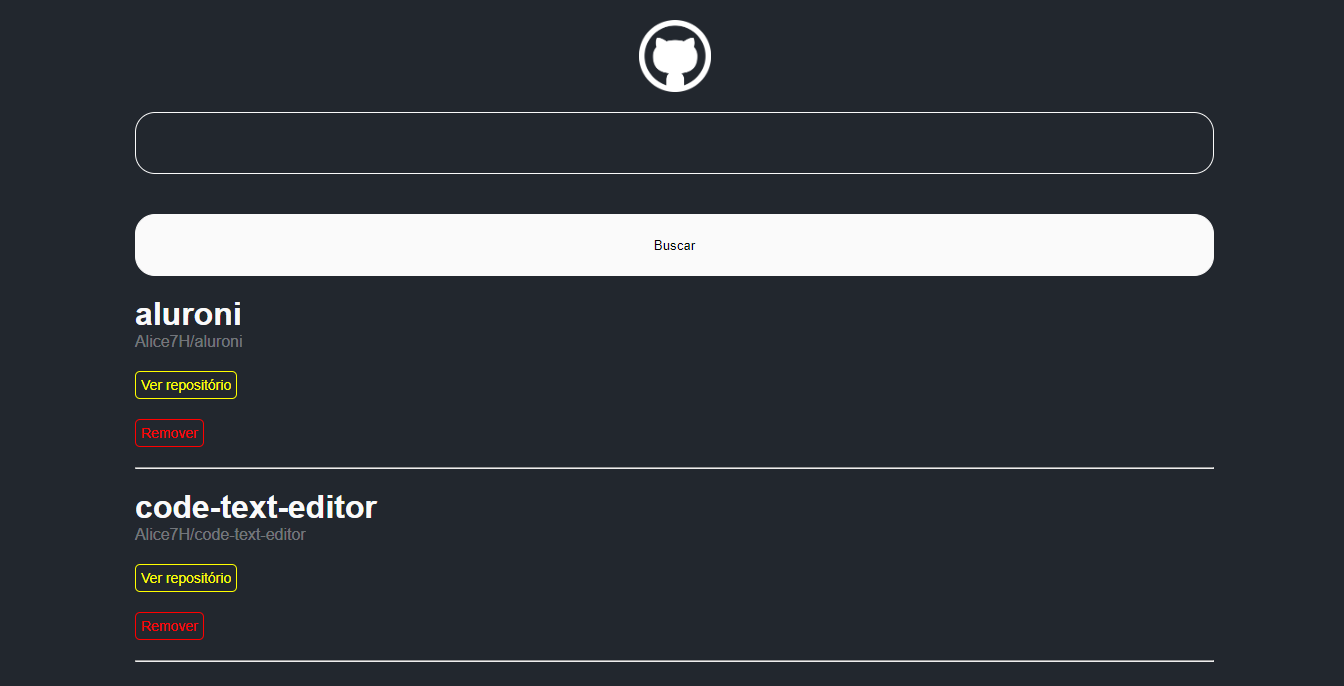
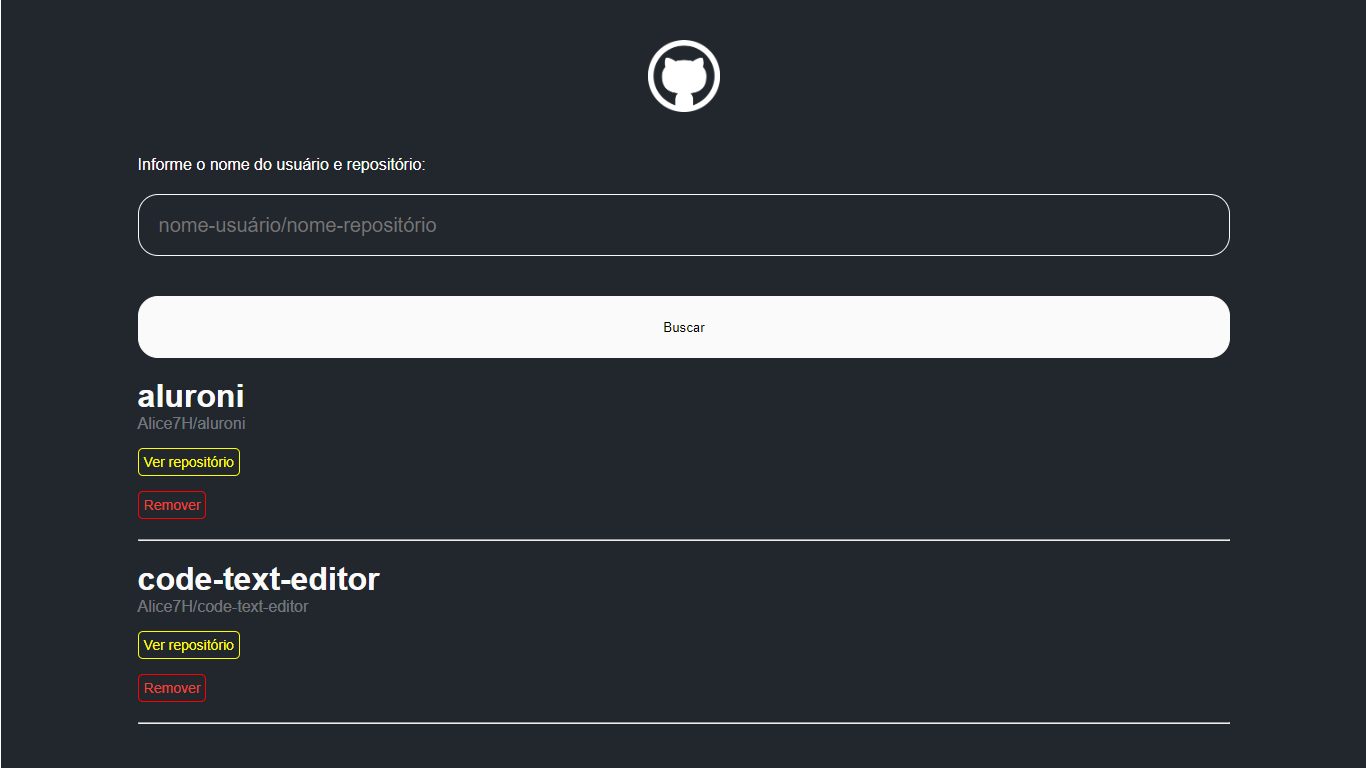
add label, generic notification error with react-hot-toast and image component

Changed region(s): [[0.0938, 0.1837, 0.9062, 0.949], [0.4688, 0.0306, 0.5312, 0.1531], [0.875, 0.2449, 0.9062, 0.2755]]

diff --git a/src/pages/App/index.js b/src/pages/App/index.js
@@ -1,21 +1,21 @@
 import { useState } from 'react';
-import { Input } from '../../components/Input';
-import { ItemRepo } from '../../components/ItemRepo';
-import { Button } from '../../components/Button';
+import { InputLabel, ItemRepo, Button, Image } from '../../components';
 import { Container } from './styles';
 import { api } from '../../services/api';
 import gitLogo from '../../assets/github.png'
+import toast, { Toaster } from 'react-hot-toast';
 
 const App = () => {
   const [currentRepo, setCurrentRepo] = useState('');
   const [repos, setRepos] = useState([]);
 
   const handleSearchRepo = async () => {
-    const { data } = await api.get(`repos/${currentRepo}`);
-    if (data.id) {
+    try {
+      const { data } = await api.get(`repos/${currentRepo}`);
       setRepos(prev => [...prev, data]);
       setCurrentRepo('');
-      return;
+    } catch (error) {
+      toast.error('Requisição não encontrada');
     }
   }
 
@@ -26,8 +26,15 @@ const App = () => {
 
   return (
     <Container>
-      <img src={gitLogo} alt="github logo" width={72} height={72} />
-      <Input value={currentRepo} onChange={(e) => setCurrentRepo(e.target.value)} />
+      <Image src={gitLogo} alt="github logo" />
+      <Toaster position="top-center" />
+      <InputLabel
+        value={currentRepo}
+        id='input'
+        onChange={(e) => setCurrentRepo(e.target.value)}
+        placeholder="nome-usuário/nome-repositório"
+        labelText="Informe o nome do usuário e repositório:"
+      />
       <Button onClick={handleSearchRepo} />
       {
         repos && repos.map(repo =>

diff --git a/src/components/InputLabel/styles.js b/src/components/InputLabel/styles.js
@@ -1,18 +1,16 @@
 import styled from 'styled-components';
 
-export const InputContainer = styled.div`
-  border: 1px solid #FAFAFA;
-  border-radius: 20px;
-  height: 62px;
+export const InputLabelContainer = styled.div`
   margin: 20px;
   width: 80%;
 
   input {
     background-color: transparent;
-    border: 0;
+    border: 1px solid #FAFAFA;
     border-radius: 20px;
     color: #FFFFFF;
     font-size: 20px;
+    margin-top: 20px;
     padding: 0 20px;
     height: 62px;
     width: 100%;

diff --git a/src/components/InputLabel/index.js b/src/components/InputLabel/index.js
@@ -1,0 +1,12 @@
+import { InputLabelContainer } from './styles';
+
+function InputLabel({ value, id, onChange, placeholder, labelText }) {
+  return (
+    <InputLabelContainer>
+      <label htmlFor={id}>{labelText}</label>
+      <input value={value} id={id} onChange={onChange} placeholder={placeholder} />
+    </InputLabelContainer>
+  )
+}
+
+export { InputLabel }

diff --git a/src/components/index.js b/src/components/index.js
@@ -1,0 +1,6 @@
+import { InputLabel } from './InputLabel';
+import { ItemRepo } from './ItemRepo';
+import { Button } from './Button';
+import { Image } from './Image';
+
+export { InputLabel, ItemRepo, Button, Image };

diff --git a/src/components/Image/index.js b/src/components/Image/index.js
@@ -1,0 +1,11 @@
+import { ImageContainer } from './styles';
+
+function Image({ src, alt }) {
+  return (
+    <ImageContainer>
+      <img src={src} alt={alt} />
+    </ImageContainer>
+  )
+}
+
+export { Image }

diff --git a/src/components/Image/styles.js b/src/components/Image/styles.js
@@ -1,0 +1,9 @@
+import styled from 'styled-components';
+
+export const ImageContainer = styled.figure`
+  margin: 20px;
+  img {
+   width: 72px;
+   height: 72px;
+  }
+`
